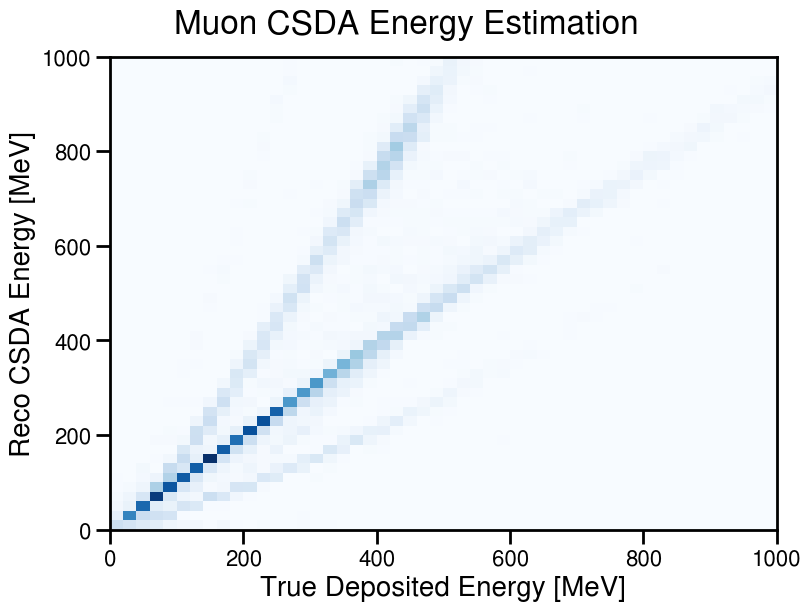
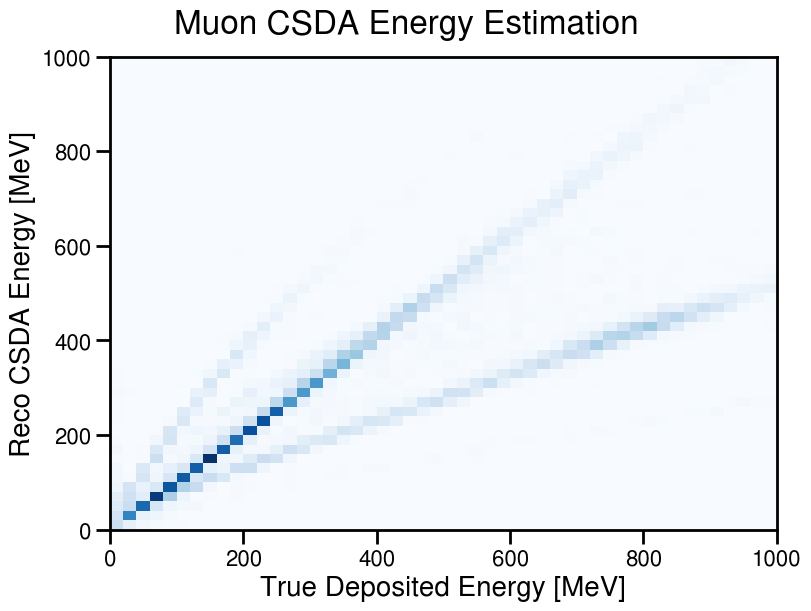
Fixed bug in plotting code that resulted in flipped axes in 2D histograms

diff --git a/plotting/plot_funcs.py b/plotting/plot_funcs.py
@@ -216,7 +216,7 @@ def plot_histogram_2d(rf, desc):
 
     contents, xedges, yedges = load_histograms(rf, desc.var)
     x, y = np.meshgrid(xedges, yedges)
-    pc = ax.pcolormesh(x, y, contents, cmap='Blues')
+    pc = ax.pcolormesh(x, y, contents.transpose(), cmap='Blues')
 
     ax.set_xlabel(desc.xlabel)
     ax.set_ylabel(desc.ylabel)
